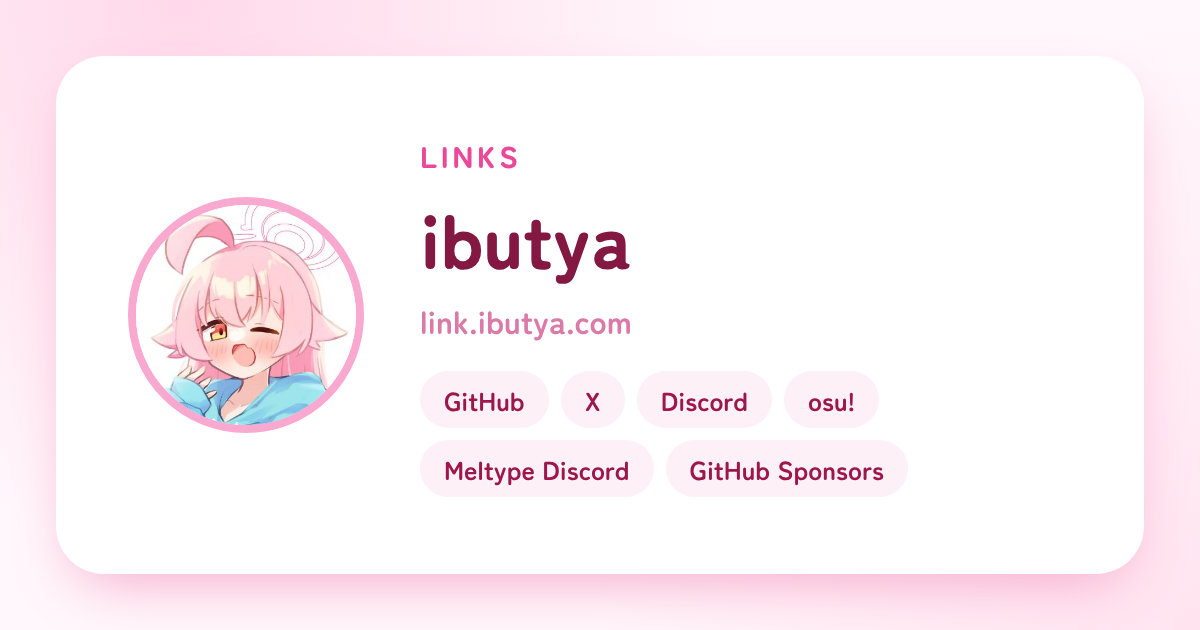
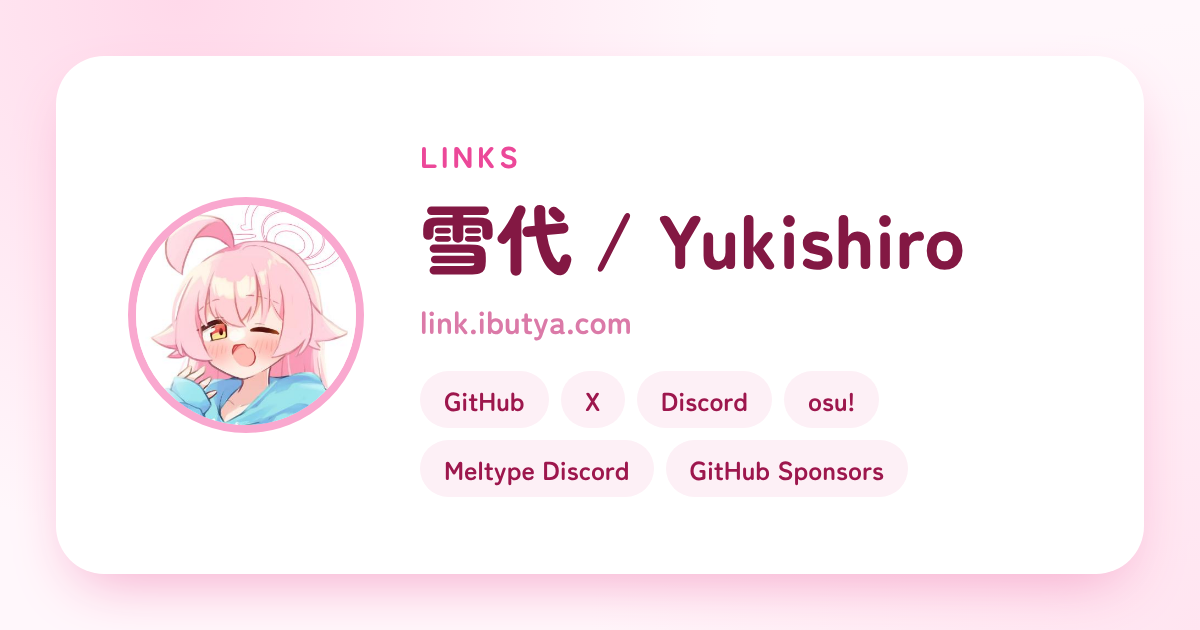
content: 表示名とひとことを GitHub のプロフィールに合わせ、link.ibutya.com にサイトの欄を足す
Claude-Session: https://claude.ai/code/session_014DgyQfRQEpPKZfBguWeMvp

Changed region(s): [[0.3392, 0.3016, 0.5242, 0.4524], [0.555, 0.3317, 0.8017, 0.4524]]

diff --git a/src/pages/LinkCard.tsx b/src/pages/LinkCard.tsx
@@ -1,7 +1,7 @@
 import { ArrowUpRight, Mail, Target, Heart } from 'lucide-react'
 import { GithubLogo, XLogo, DiscordLogo, type IconComponent } from '../components/BrandIcons'
 import { LanguageToggle } from '../components/LanguageToggle'
-import { links, site, type LinkIcon } from '../data/mock'
+import { links, site, websites, type LinkIcon } from '../data/mock'
 import { useLang } from '../i18n'
 import { discordMembers, useDiscordInvites } from '../hooks/useDiscordInvites'
 
@@ -40,6 +40,23 @@ export function LinkCard() {
         <h1 className="text-2xl font-black tracking-tight text-ink-900">{site.name}</h1>
         <p className="mb-3 text-sm font-bold text-ink-500">{l(site.role)}</p>
         <p className="mb-8 text-center text-sm leading-relaxed text-ink-600">{l(site.homeIntro)}</p>
+
+        <ul className="mb-6 grid w-full grid-cols-2 gap-3">
+          {websites.map((w) => (
+            <li key={w.url}>
+              <a
+                href={w.url}
+                target="_blank"
+                rel="noreferrer"
+                className="flex h-full flex-col rounded-[28px] border border-ink-200/60 bg-white p-4 shadow-softer transition hover:-translate-y-0.5 active:scale-[0.98]"
+              >
+                <span className="mb-1 text-2xl">{w.emoji}</span>
+                <span className="font-black text-ink-900">{w.name}</span>
+                {w.note && <span className="mt-0.5 text-xs leading-snug text-ink-500">{l(w.note)}</span>}
+              </a>
+            </li>
+          ))}
+        </ul>
 
         <ul className="flex w-full flex-col gap-3">
           {links.map((link) => {

diff --git a/src/data/mock.ts b/src/data/mock.ts
@@ -25,6 +25,13 @@ export type SiteLink = {
   note?: Text
 }
 
+export type Website = {
+  name: string
+  url: string
+  emoji: string
+  note?: Text
+}
+
 export type Playlist = {
   name: string
   url: string
@@ -105,5 +112,7 @@ const emailLinks: SiteLink[] = contactEmails.map(({ label, email }) => ({
   icon: 'mail',
   color: 'from-amber-400 to-yellow-300',
 }))
+
+export const websites = config.websites as Website[]
 
 export const links = [...(config.links as SiteLink[]), ...emailLinks]

diff --git a/README.md b/README.md
@@ -26,7 +26,7 @@
 
 `oshi` は `name` / `from` / `emoji` / `image` / `url`、`favoriteArtists` は `name` / `genre` / `image` / `url` が使える(`name` 以外は省略可)。
 
-`links` は `name` / `handle` / `url` / `icon` / `color` のほか、ボタンの下に出すひとこと `note` を書ける(省略可)。`discord.gg/...` のリンクにはサーバーの人数が自動で付く。links は `/links` タブと link.ibutya.com の両方に出る(links.ibutya.com は link.ibutya.com へリダイレクト)。
+`links` は `name` / `handle` / `url` / `icon` / `color` のほか、ボタンの下に出すひとこと `note` を書ける(省略可)。`discord.gg/...` のリンクにはサーバーの人数が自動で付く。`websites` (`name` / `url` / `emoji` / `note`) は link.ibutya.com の上に並ぶサイトの欄。links は `/links` タブと link.ibutya.com の両方に出る(links.ibutya.com は link.ibutya.com へリダイレクト)。
 
 ## セットアップ
 
